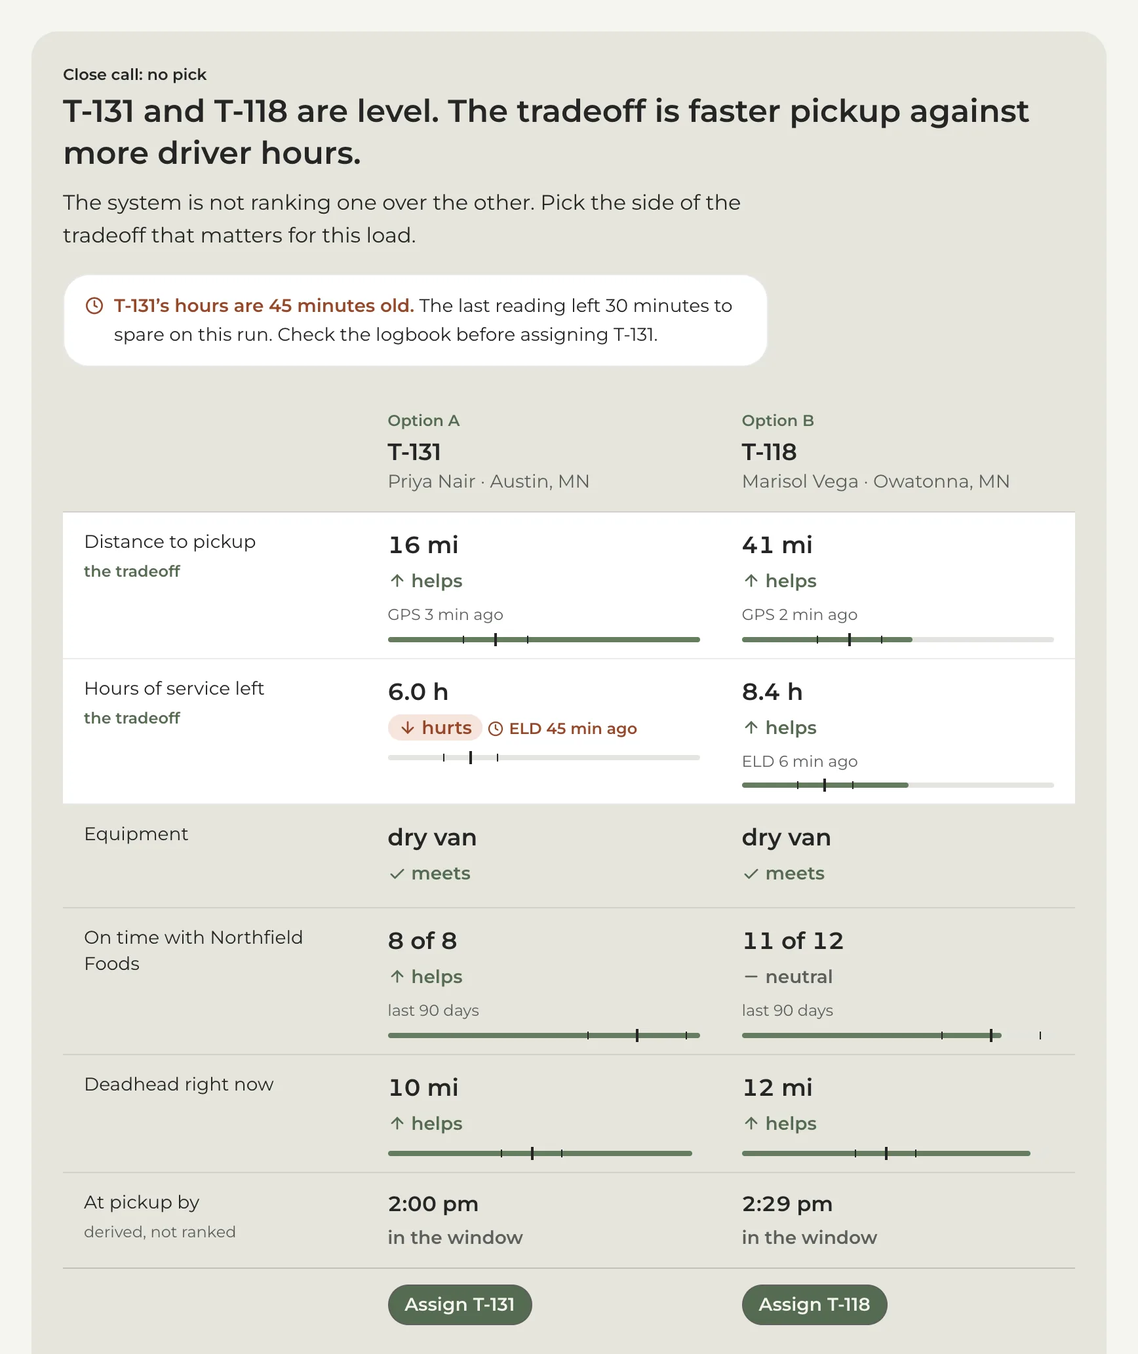
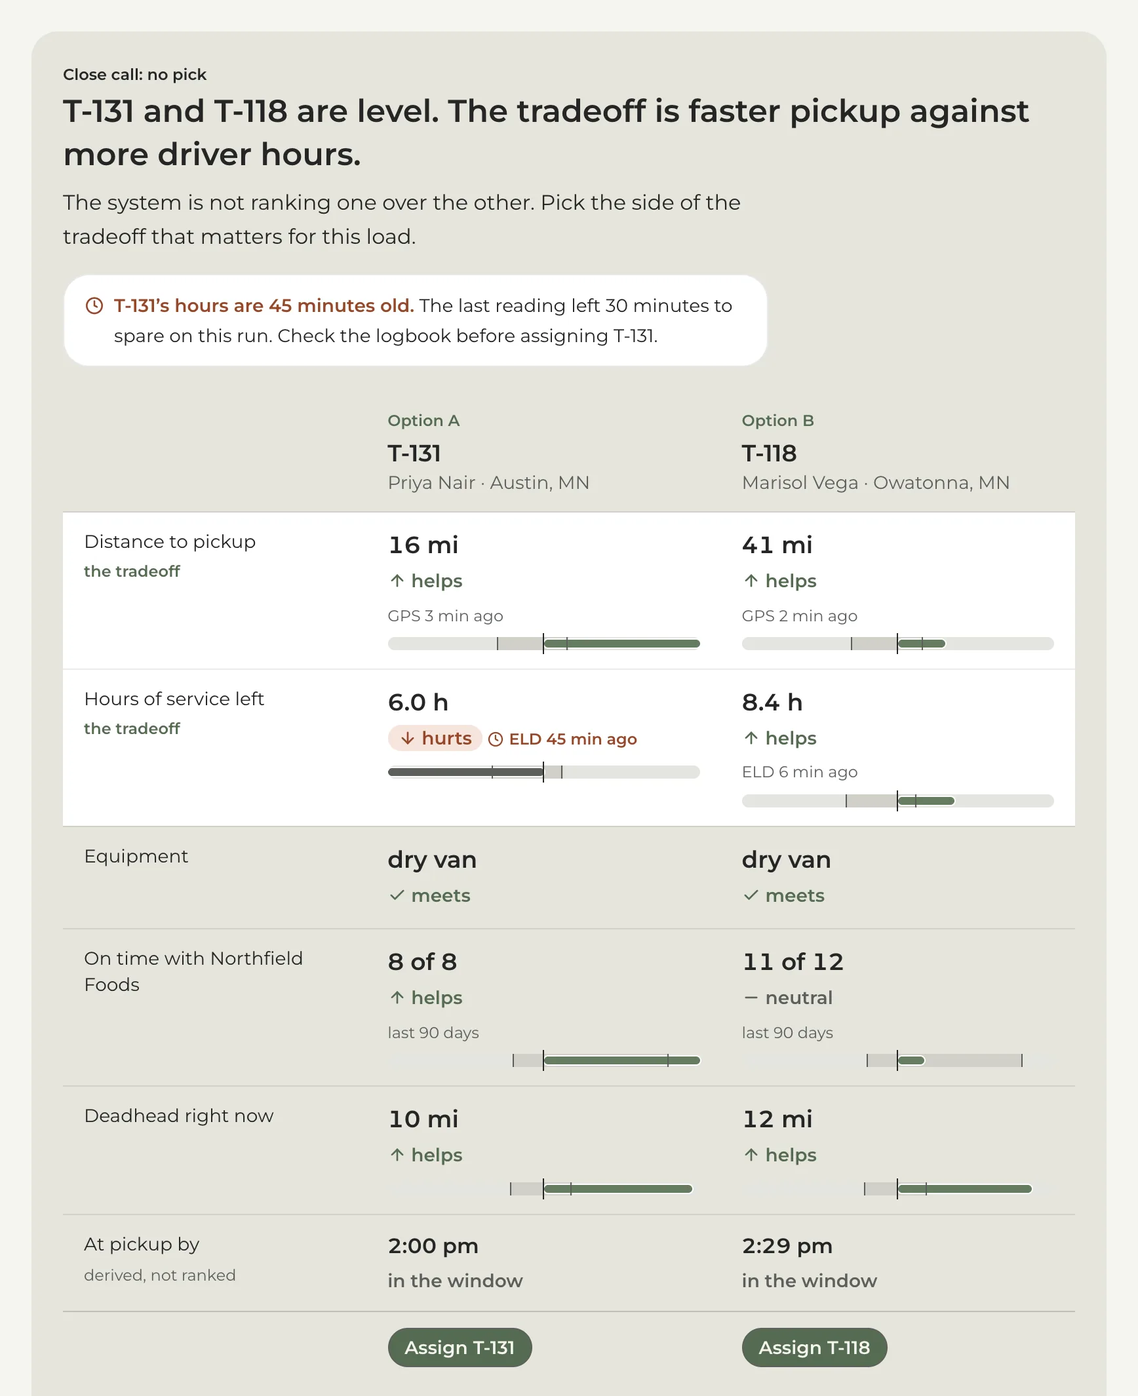
The factor bar runs from the fleet's middle out to the truck, and every row shares that middle
The bar under each factor claimed to show where a truck sits between the
worst and the best of the trucks that can take this load. It drew that as a
fill from the left edge, which is a length encoding doing a position job:
position along a common scale is the accurate one, and the fill spent the
other. It also meant a truck ahead of the fleet covered the very band it was
being compared to, so the band and the middle had to be painted over the top
of it, and five progress bars in a column read as texture rather than as five
readings.

And the one landmark on a row -- the fleet's middle -- landed wherever each
factor's own spread put it: 41% of the first row, 27% of the second, 80% of
the fourth, 46% of the fifth. Five bars with nothing to line up on.

So each row is recentred on its median and the length runs from that middle
out to the truck. The middle is now at 50% everywhere, the left edge of every
lead is the same x down the card, and a lead that stops inside the level zone
is the case the word "neutral" is for, drawn. Sage on the better side of the
fleet, grey on the worse -- one hue in two intensities, the darker for the
worse state, which is the bullet graph's own rule and leaves caution where
#241 put it. The cost is stated in the key and in the folded note: the two
halves of a row are stretched by different amounts, so a bar is a comparison
with the fleet and not a scale to measure across.
[…]

diff --git a/prototype/dispatch-cockpit.css b/prototype/dispatch-cockpit.css
@@ -1598,13 +1598,17 @@ html[data-embed] .ck { border-radius: 0; }
 .ck .ck-key-sample {
   grid-column: auto;
   flex: 0 0 auto;
-  width: 3.5rem;
-  /* Centred on the first line of the sentence it explains. The bar is 4px of
-     ink rather than a glyph in a box, so it cannot take the 1lh box the icons
+  /* 4.5rem, not the 3.5 a fill needed. The sample now has to show a zone,
+     its two edges, the middle and a lead out of it, and at 56px those five
+     things were inside 56 pixels and read as a smudge. */
+  width: 4.5rem;
+  /* Centred on the first line of the sentence it explains. The bar is ink
+     rather than a glyph in a box, so it cannot take the 1lh box the icons
      above use; half the difference between the line and the bar is the same
      arithmetic by hand. 0.45em was 1.1px high, and wrong again whenever the
-     bar's height or this row's leading moves. */
-  margin-top: calc((1lh - 4px) / 2);
+     bar's height or this row's leading moves -- which the height just did,
+     from 4px to 10px, and this arithmetic followed it without an edit. */
+  margin-top: calc((1lh - 10px) / 2);
 }
 .ck .ck-factor-note {
   margin: var(--space-xs) 0 0;
@@ -1614,89 +1618,132 @@ html[data-embed] .ck { border-radius: 0; }
 }
 
 /* ---------- Where the truck stands, as a bar ----------
-   Two real elements, the track and the mark. The fleet's middle and the zone
-   that still counts as level are the track's two pseudo-elements, which is
-   not a trick to save bytes: curves.mjs counts ELEMENTS, and four marks a row
-   across five rows and two cards would move that count by sixty for drawing
-   that carries no text and no border of its own.
+   Three surfaces, and the same three this has always had: the track and its
+   two pseudo-elements, with the one real child drawing the reading. Nothing
+   new is added, on purpose -- curves.mjs counts ELEMENTS, and a fourth mark a
+   row across four bars, two cards and seven reachable states would move that
+   count for drawing that carries no text and no border of its own.
 
-   THE MIDDLE AND THE BAND SIT ON TOP OF THE MARK, NOT UNDER IT. Drawn
-   underneath they vanish, because the mark is a fill from the left edge and
-   a truck ahead of the fleet covers the very band it is being compared to --
-   which is every helping factor, that is, most of them. Painted over the
-   fill they read as calipers around the middle: two hairlines saying where
-   level stops and a heavier tick saying where the middle is.
+   THIS USED TO BE A FILL FROM THE LEFT EDGE, WHICH IS THE WRONG ENCODING.
+   The quantity is where a truck sits between the worst and the best of the
+   eligible fleet -- a POSITION on a scale, not an amount of anything -- and
+   the drawing spent the length channel on it and started the length at the
+   track's edge. Two things followed. The first is that a fill from the left
+   is the progress-bar idiom, which carries "more filled is further along" so
+   firmly that five of them in a column read as five progress bars and then,
+   because they are all much the same, as texture. The second was structural:
+   a truck AHEAD of the fleet covers the very band it is being compared to,
+   so the band and the middle had to be painted over the top of the fill, and
+   the fill was the heaviest ink on a row whose subject is the figure beside
+   it.
 
-   The band is LEVEL rescaled to this factor's own spread, so a mark inside
-   the calipers is exactly a factor the word calls neutral. On this fleet
-   that band runs from 9% to 16% of a track, wide enough that leaving it out
-   would put a mark a quarter of the way clear of the middle under the word
-   "neutral". */
+   So the length now runs from the fleet's MIDDLE out to the truck. The origin
+   is fixed and shared, the length is the one thing the row is arguing, and
+   the band is no longer something the reading can hide -- a lead that ends
+   inside it is exactly the case the word "neutral" is for, and it now draws
+   itself.
+
+   10px, not 4. 4px was chosen when the bar was a fill, where thin was the
+   only way to keep five of them from shouting over the figures; a mark that
+   starts at the middle spends a fraction of that ink, so the track can carry
+   a band the eye reads as a region rather than two hairline calipers it has
+   to decode. */
 .ck-factor-bar {
   grid-column: 1 / -1;
   /* Block, not the span's default inline: in the factor list it is a grid
      item and gets this for free, and in a comparison cell and in the key it
-     is neither, where an inline box would drop the 4px height on the floor. */
+     is neither, where an inline box would drop the height on the floor. */
   display: block;
   position: relative;
-  /* 4, not 6. Five of these under five rows of figures is a lot of ink for
-     a reference mark, and the figures are what finding 1 just made the thing
-     you land on. Thin enough to read as a rule under the row. */
-  height: 4px;
+  height: 10px;
   margin-top: var(--space-2xs);
-  border-radius: 2px;
-  background: var(--color-tag-border);
+  margin-bottom: 2px;
+  border-radius: 5px;
+  /* The track, and the level zone's TINT, in one paint. The tint is on the
+     track rather than on a layer of its own so that the reading can sit above
+     it and the zone's two edges can sit above the reading -- which is the
+     order the drawing needs and cannot get from three stacked boxes. Drawn as
+     a box, the zone's right-hand edge was covered by the very lead it exists
+     to bound, on every factor where the truck is ahead of the fleet: three of
+     the four on the opening card. */
+  background-color: var(--color-tag-border);
+  background-image: linear-gradient(90deg,
+    transparent var(--band-l),
+    var(--color-rule) var(--band-l),
+    var(--color-rule) calc(var(--band-l) + var(--band-w)),
+    transparent calc(var(--band-l) + var(--band-w)));
 }
-/* accent-deep, not accent-text. color.css draws the line by what sits ON the
-   fill rather than by the fill itself, and says so in as many words: a sage
-   fill carrying no text -- a rule, a bar, an icon -- takes accent-deep. This
-   is that. 4.51 on the white card and 3.57 against its own track, both over
-   the 3:1 a non-text mark answers to, and a step lighter than the text sage
-   that was here, which was reading as heavy against five rows of figures. */
-.ck-factor-mark {
-  position: absolute;
-  top: 0;
-  bottom: 0;
-  left: 0;
-  width: var(--pos);
-  /* Under both marks below. Positioned siblings paint in tree order and a
-     pseudo-element counts as a child, so ::before -- the band -- was painting
-     UNDER this fill and vanishing behind it on every factor where the truck
-     leads the band. That is most of them, and it included the one case the
-     band exists for: a mark that is ahead of the middle and still called
-     neutral showed the band's right edge and not its left. */
-  z-index: 0;
-  border-radius: 2px;
-  background: var(--color-accent-deep);
-}
-/* The zone that still counts as level with the fleet. Charcoal, not
-   muted-gray: over the fill, muted-gray is 1.43:1 and simply is not there.
-   Charcoal is 3.40 on the fill and 12.13 on the track, so the caliper reads
-   wherever the mark happens to be. */
+/* WHERE THE ZONE STOPS, AS TWO EDGES OVER EVERYTHING ELSE. The tint above is
+   what makes the zone a place rather than a pair of ticks, and the tint alone
+   cannot carry it: --color-rule on --color-tag-border is 1.23:1, which reads
+   as a block at this width and is nowhere near the 3:1 a graphic carrying
+   meaning answers to. These two edges are what clear it -- muted-gray is 5.12
+   on the track and 4.17 on the tint -- and they sit ABOVE the reading,
+   because the one question this zone is drawn to answer is whether a lead
+   ends inside it, and an edge the lead covers cannot answer it.
+
+   muted-gray rather than the charcoal these used to be: the middle is the
+   charcoal in this drawing now, and two charcoals separated only by weight
+   was an arrangement a reader had to be told about in order to see. */
 .ck-factor-bar::before {
   content: "";
   position: absolute;
-  z-index: 1;
-  top: -1px;
-  bottom: -1px;
+  z-index: 2;
+  top: 0;
+  bottom: 0;
   left: var(--band-l);
   width: var(--band-w);
-  border-left: 1px solid var(--color-charcoal);
-  border-right: 1px solid var(--color-charcoal);
+  border-left: 1px solid var(--color-muted-gray);
+  border-right: 1px solid var(--color-muted-gray);
 }
-/* The fleet's middle. Same ink as the calipers on purpose -- what separates
-   them is weight and reach, 2px and taller against 1px and shorter, so the
-   middle reads as the reference and the calipers as the tolerance around it
-   rather than as three marks of equal standing. */
+/* THE READING: from the fleet's middle out to this truck. Inset two pixels
+   top and bottom so it sits INSIDE the track rather than replacing it, which
+   is the arrangement a bullet graph uses for the same reason -- the measure
+   is the featured thing and the range it is measured against stays visible
+   underneath it.
+
+   accent-deep, not accent-text. color.css draws that line by what sits ON the
+   fill rather than by the fill itself: a sage fill carrying no text -- a rule,
+   a bar, an icon -- takes accent-deep. 3.57 against the track, over the 3:1 a
+   non-text mark answers to.
+
+   THE WHITE RING IS LOAD-BEARING. accent-deep on the level band is 2.91,
+   under that floor, and inside the band is precisely where a lead lands when
+   the factor is the neutral one -- the single case this band was drawn for.
+   One pixel of the card's own white between the two puts the sage against
+   white at 4.51 wherever it crosses. */
+.ck-factor-mark {
+  position: absolute;
+  z-index: 1;
+  top: 2px;
+  bottom: 2px;
+  left: var(--lead-l);
+  width: var(--lead-w);
+  border-radius: 3px;
+  background: var(--color-accent-deep);
+  box-shadow: 0 0 0 1px var(--color-white);
+}
+/* A truck on the worse side of the fleet. Grey rather than a second hue,
+   because the palette has one and #241 spent the only other one on a rule
+   refusing a truck; and DARKER than the sage rather than lighter, which is
+   the bullet graph's own rule -- the poor states take the stronger intensity,
+   because on a card arguing for a truck the thing worth catching is the
+   factor that argues back. 5.12 on the track. */
+.ck-factor-bar[data-side="behind"] .ck-factor-mark { background: var(--color-muted-gray); }
+/* The fleet's middle, and now the one fixed thing on the card: every row is
+   recentred so this lands at 50%, so the left edge of every lead is the same
+   x and the five rows have a reference to be read against. Charcoal and a
+   single pixel, taller than the track at both ends: the reading is what
+   carries weight, and this is what it is measured from. */
 .ck-factor-bar::after {
   content: "";
   position: absolute;
-  z-index: 2;
+  z-index: 3;
   top: -3px;
   bottom: -3px;
-  left: var(--med);
-  width: 2px;
-  margin-left: -1px;
+  left: 50%;
+  width: 1px;
+  margin-left: -0.5px;
   background: var(--color-charcoal);
 }
 

diff --git a/prototype/dispatch-cockpit.js b/prototype/dispatch-cockpit.js
@@ -594,6 +594,23 @@
      factor's spread across the eligible trucks, so every row means the one
      thing: worst of the fleet on the left, best on the right.
 
+     AND THEN RECENTRED, SO THE FIVE ROWS SHARE A REFERENCE. Rescaling to each
+     factor's own spread fixes the ends and leaves the middle wherever it
+     falls: on this fleet the median landed at 41% of the first row, 27% of
+     the second, 80% of the fourth and 46% of the fifth. Five bars whose one
+     meaningful landmark is at four different x positions give the eye nothing
+     to line up on, and a column with nothing to line up on reads as texture,
+     which is exactly what five of these looked like.
+
+     recentre() maps each half of a row's own scale onto half the track, so
+     the fleet's middle is at 50% on every row and "ahead of the fleet" is one
+     vertical edge down the card rather than five separate readings. The cost
+     is stated rather than hidden: the two halves are stretched by different
+     amounts, so a row is no longer linear end to end. That is the right
+     trade for this card, because the question it answers is "which side of
+     the fleet is this truck on, and by how much" and not "what is the
+     absolute spread of the fleet" -- and the key under the bars says so.
+
      WHAT GETS NO BAR. Equipment, because it is not a comparison -- the load
      asks for a type and a truck either is it or is standing in for it, which
      is why direction() answers it in its own words. A truck with no history
@@ -608,13 +625,30 @@
     const span = r.hi - r.lo;
     if (!(span > 0)) return '';
     const at = (v) => Math.max(0, Math.min(100, ((v - r.lo) / span) * 100));
-    const pos = at(t.norm[f.key]);
     const med = at(state.mid[f.key]);
-    const lo = at(state.mid[f.key] - LEVEL);
-    const hi = at(state.mid[f.key] + LEVEL);
+    /* Own scale to recentred scale: [0, med] onto the left half, [med, 100]
+       onto the right. The two guards are for a fleet whose middle sits at the
+       very end of its own spread, where one half has no room -- every truck is
+       then on one side of the middle, and the whole reading belongs in that
+       half rather than divided by zero. */
+    const recentre = (x) => {
+      if (!(med > 0)) return 50 + (x / 100) * 50;
+      if (!(med < 100)) return (x / 100) * 50;
+      return x <= med ? (x / med) * 50 : 50 + ((x - med) / (100 - med)) * 50;
+    };
+    const pos = recentre(at(t.norm[f.key]));
+    const lo = recentre(at(state.mid[f.key] - LEVEL));
+    const hi = recentre(at(state.mid[f.key] + LEVEL));
+    /* The lead: the span between the fleet's middle and this truck. It is
+       what the row is arguing, and giving it its own two numbers means the
+       stylesheet draws a length from a fixed origin rather than deriving one
+       from a fill that starts at the track's edge. */
+    const side = pos >= 50 ? 'ahead' : 'behind';
+    const leadL = Math.min(50, pos);
+    const leadW = Math.abs(pos - 50);
     /* aria-hidden because the value and the word beside it already say this
        in text, and a third announcement per row is fifteen per card. */
-    return `<span class="ck-factor-bar" aria-hidden="true" style="--pos:${pos.toFixed(1)}%;--med:${med.toFixed(1)}%;--band-l:${lo.toFixed(1)}%;--band-w:${(hi - lo).toFixed(1)}%"><span class="ck-factor-mark"></span></span>`;
+    return `<span class="ck-factor-bar" data-side="${side}" aria-hidden="true" style="--pos:${pos.toFixed(1)}%;--band-l:${lo.toFixed(1)}%;--band-w:${(hi - lo).toFixed(1)}%;--lead-l:${leadL.toFixed(1)}%;--lead-w:${leadW.toFixed(1)}%"><span class="ck-factor-mark"></span></span>`;
   }
 
   function factorRows(t, opts = {}) {
@@ -639,14 +673,14 @@
          a drawing of one, so the key cannot drift from the thing it explains;
          only its grid placement is overridden. -->
     <p class="ck-factor-key">
-      <span class="ck-factor-bar ck-key-sample" aria-hidden="true" style="--pos:62%;--med:50%;--band-l:42%;--band-w:16%"><span class="ck-factor-mark"></span></span>
-      <span>Worst to best across the trucks that can take this load, with the fleet&rsquo;s middle marked and the zone that still counts as level either side of it.</span>
+      <span class="ck-factor-bar ck-key-sample" data-side="ahead" aria-hidden="true" style="--pos:70%;--band-l:40%;--band-w:20%;--lead-l:50%;--lead-w:20%"><span class="ck-factor-mark"></span></span>
+      <span>The bar runs from the middle of the trucks that can take this load out to this one: sage when it is the better side of the fleet, grey when it is the worse. The block around the middle is the zone that still counts as level.</span>
     </p>
     <p class="ck-factor-note">Where a truck stands, not how much a factor moved the ranking.</p>
     <details class="ck-note">
       <summary><span class="ck-note-label">More about these comparisons</span>${icon('chevron', 'ck-icon ck-misses-chev')}</summary>
       <div class="ck-note-body">
-        <p>Each bar places this truck between the worst and the best of the trucks that can take this load, with the fleet&rsquo;s middle marked and the zone that still counts as level around it.</p>
+        <p>Each bar starts at the middle of the trucks that can take this load and runs out to where this truck stands, with the zone that still counts as level drawn around that middle. Every row is stretched so the middle is at the same place, which is what lets the five be read down the column; the two halves of a row are stretched by different amounts to do it, so a bar is a comparison with the fleet and not a scale you can measure across.</p>
         <p>Equipment has no bar: the load asks for a type, and a truck either is it or is standing in for it. There is no composite score either, because none would tell you which of these to check.</p>
       </div>
     </details>`}`;
@@ -865,8 +899,8 @@
       </tr></tfoot>
     </table>
     <p class="ck-factor-key">
-      <span class="ck-factor-bar ck-key-sample" aria-hidden="true" style="--pos:62%;--med:50%;--band-l:42%;--band-w:16%"><span class="ck-factor-mark"></span></span>
-      <span>Worst to best across the trucks that can take this load, with the fleet&rsquo;s middle marked and the zone that still counts as level either side of it.</span>
+      <span class="ck-factor-bar ck-key-sample" data-side="ahead" aria-hidden="true" style="--pos:70%;--band-l:40%;--band-w:20%;--lead-l:50%;--lead-w:20%"><span class="ck-factor-mark"></span></span>
+      <span>The bar runs from the middle of the trucks that can take this load out to this one: sage when it is the better side of the fleet, grey when it is the worse. The block around the middle is the zone that still counts as level.</span>
     </p>`;
   }
 

diff --git a/prototype/dispatch-cockpit.html b/prototype/dispatch-cockpit.html
@@ -106,7 +106,7 @@
   <link rel="stylesheet" href="../type.css?v=5" />
   <link rel="stylesheet" href="../style.css?v=20260920a" />
   <link rel="stylesheet" href="../site-nav.css?v=20260918b" />
-  <link rel="stylesheet" href="dispatch-cockpit.css?v=33" />
+  <link rel="stylesheet" href="dispatch-cockpit.css?v=34" />
   <link rel="stylesheet" href="../read-aloud.css?v=2" />
   <!-- EMBED MODE, and why it is a flag on this page rather than a page of
        its own. The homepage's prototype card opens the cockpit in a tablet
@@ -139,7 +139,7 @@
   <script src="../read-aloud.js?v=3" defer></script>
   <!-- The cockpit. Deferred, no dependencies, no build step; the synthetic
        fleet is the object at the top of the file. -->
-  <script src="dispatch-cockpit.js?v=13" defer></script>
+  <script src="dispatch-cockpit.js?v=14" defer></script>
   <!-- The header logo plays a one-shot reveal clip on load and fades out
        over the static mark as it finishes. The class is set here, before
        first paint, so the static mark never flashes ahead of the animation;
@@ -298,9 +298,9 @@
           </div>
           <figure class="ckw-hero-figure">
             <div class="ckw-scroll">
-              <img src="../img/cockpit/close-call.webp?v=11" width="1736" height="2066" alt="The cockpit showing a close call: a heading reading &ldquo;T-131 and T-118 are level. The tradeoff is faster pickup against more driver hours&rdquo;, under it a note raised on white saying T-131&rsquo;s hours are 45 minutes old, and then a comparison table with Option A and Option B as its two columns. The two rows that separate them, distance and driver hours, are raised on white and marked &ldquo;the tradeoff&rdquo;; the remaining factors follow, then a derived row giving the time each would reach the pickup, then an Assign button under each option." />
+              <img src="../img/cockpit/close-call.webp?v=12" width="1736" height="2130" alt="The cockpit showing a close call: a heading reading &ldquo;T-131 and T-118 are level. The tradeoff is faster pickup against more driver hours&rdquo;, under it a note raised on white saying T-131&rsquo;s hours are 45 minutes old, and then a comparison table with Option A and Option B as its two columns. The two rows that separate them, distance and driver hours, are raised on white and marked &ldquo;the tradeoff&rdquo;; the remaining factors follow, then a derived row giving the time each would reach the pickup, then an Assign button under each option." />
             </div>
-            <figcaption><strong>When the call is close, the system says so.</strong> One comparison, the two rows that separate the trucks first, the one figure it cannot vouch for marked, and no invented winner. <a class="ckw-full" href="../img/cockpit/close-call.webp?v=11">Full size &#8599;<span class="visually-hidden">, the close call</span></a></figcaption>
+            <figcaption><strong>When the call is close, the system says so.</strong> One comparison, the two rows that separate the trucks first, the one figure it cannot vouch for marked, and no invented winner. <a class="ckw-full" href="../img/cockpit/close-call.webp?v=12">Full size &#8599;<span class="visually-hidden">, the close call</span></a></figcaption>
           </figure>
         </div>
         <!-- Under the pair rather than inside the copy column: it is about the

diff --git a/index.html b/index.html
@@ -601,7 +601,7 @@
                embed. -->
           <div class="case-card case-card--prototype reveal">
             <a class="case-thumb" href="prototype/dispatch-cockpit.html" aria-label="Read the case study: An AI truck recommendation the dispatcher can check and overrule">
-              <img decoding="async" loading="lazy" src="img/cockpit/slide-close-call.webp?v=12" alt="The cockpit on a close call: a card headed &ldquo;T-131 and T-118 are level. The tradeoff is faster pickup against more driver hours&rdquo;, a line saying the system is not ranking one over the other, and a comparison beneath it with Option A, T-131, against Option B, T-118. The two rows that separate them, distance to pickup and hours of service left, are raised on white and marked &ldquo;the tradeoff&rdquo;." width="1360" height="1020"/>
+              <img decoding="async" loading="lazy" src="img/cockpit/slide-close-call.webp?v=13" alt="The cockpit on a close call: a card headed &ldquo;T-131 and T-118 are level. The tradeoff is faster pickup against more driver hours&rdquo;, a line saying the system is not ranking one over the other, and a comparison beneath it with Option A, T-131, against Option B, T-118. The two rows that separate them, distance to pickup and hours of service left, are raised on white and marked &ldquo;the tradeoff&rdquo;." width="1360" height="1020"/>
             </a>
             <div class="case-card-body">
               <h3>An AI truck recommendation the dispatcher can check and overrule</h3>
